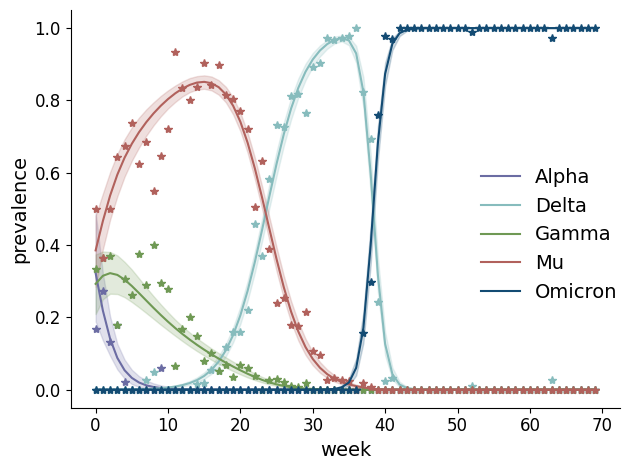
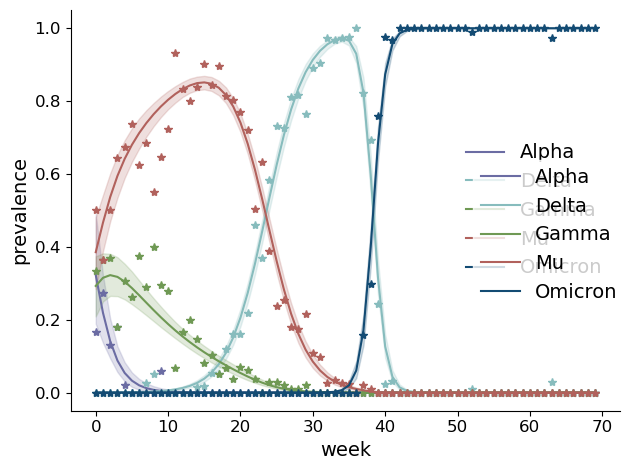
feat: added figures 3 and 3-1 and their corresponding generating functions

diff --git a/plot_scripts/results_epidemiological_distributions.py b/plot_scripts/results_epidemiological_distributions.py
@@ -29,7 +29,7 @@ import utilities as ut
 plt.style.use(config['PATHS']['PLOT_STYLE'])
 prop_cycle = plt.rcParams['axes.prop_cycle']
 colors = prop_cycle.by_key()['color']
-
+"""
 df_best_models = pd.read_csv(OUT_PATH + 'best_models.csv')
 df_best_models = df_best_models.set_index(df_best_models.columns[0]).transpose()
 
@@ -40,7 +40,7 @@ all_dfs, columns = ut.prepare_confirmed_cases_data()
 ##############################################################################
 # load the samples (models fits for every epidemiological distribution)
 dist_posteriors = ut.load_samples()
-
+"""
 ########################################################################
 # Plot CDFs
 def plot_cdf(df, epi_dist, max_val, ax, cdf_null_hyp, n, n_subset = None, subset = 'wave'):
@@ -146,34 +146,9 @@ def plot_dist(df, epi_dist, max_val, ax, n_subset = None, subset = 'wave',
     ax.set_ylabel('Probability')
     ax.set_title(title)
     return ax
-
-########################################################################
-# Plot best model
-def plot_best_model(dist, ax, n):
-    df_best_models_sum = pd.read_csv(OUT_PATH + "best_fit_summary.csv")
-    df_dist = df_best_models_sum[df_best_models_sum.dist == dist]
-    df_dist = df_dist.set_index('stat')
-    name = dist.replace('_', ' ')
-    mean = np.array([df_dist['wave_1']['mean'], df_dist['wave_2']['mean'], 
-                     df_dist['wave_3']['mean'], df_dist['wave_4']['mean']])
-    err = np.array([[df_dist['wave_1']['mean'] - df_dist['wave_1']['q025'], 
-                     df_dist['wave_2']['mean'] - df_dist['wave_2']['q025'], 
-                     df_dist['wave_3']['mean'] - df_dist['wave_3']['q025'], 
-                     df_dist['wave_4']['mean'] - df_dist['wave_4']['q025']],
-                    [df_dist['wave_1']['q975'] - df_dist['wave_1']['mean'], 
-                     df_dist['wave_2']['q975'] - df_dist['wave_2']['mean'], 
-                     df_dist['wave_3']['q975'] - df_dist['wave_3']['mean'], 
-                     df_dist['wave_4']['q975'] - df_dist['wave_4']['mean']]])
-    ax.errorbar(['1', '2', '3', '4'], mean, err, 
-                ls = '-', marker = 'o', 
-                color = colors[n],
-                label = name)
-    ax.set_xlabel('Wave')
-    ax.set_ylabel('Days')
-    return ax
-
 ########################################################################
 # Plot epi distributions
+"""
 dist_list = ['Gamma', 'Lognormal', 'Weibull', 'Exponential', 'Gen Lognormal']
 max_val_plot=60
 
@@ -269,24 +244,53 @@ plot_dist(df, epi_dist = var, max_val = max_val_plot,
 handles, labels = ax[0][0].get_legend_handles_labels()
 fig.legend(handles, labels, bbox_to_anchor = (0.8, -0.03), ncol = len(dist_list))
 fig.savefig(FIG_PATH + 'onset_distributions.png')
+"""
 
 ########################################################################
 ########################################################################
-# Plot best distributions
-fig, ax = plt.subplots(figsize = (10, 10))
-dist = 'icu_stay'
-plot_best_model(dist, ax, 0)
-dist = 'hosp_stay'
-plot_best_model(dist, ax, 1)
-dist = 'onset_hosp'
-plot_best_model(dist, ax, 2)
-dist = 'onset_icu'
-plot_best_model(dist, ax, 3)
-dist = 'onset_death'
-plot_best_model(dist, ax, 4)
-handles, labels = ax.get_legend_handles_labels()
-# remove the errorbars
-handles = [h[0] for h in handles]
-# use them in the legend
-ax.legend(handles, labels, loc='upper right',numpoints=1)
-fig.savefig(FIG_PATH + 'best_models.png')
+########################################################################
+# Plot best model
+def plot_best_model_line(dist, ax, n, title):
+    df_best_models_sum = pd.read_csv(OUT_PATH + "best_fit_summary.csv")
+    df_dist = df_best_models_sum[df_best_models_sum.dist == dist]
+    df_dist = df_dist.set_index('stat')
+    name = dist.replace('_', ' ')
+    mean = np.array([df_dist['wave_1']['mean'], df_dist['wave_2']['mean'], 
+                     df_dist['wave_3']['mean'], df_dist['wave_4']['mean']])
+    err = abs(np.array([[df_dist['wave_1']['mean'] - df_dist['wave_1']['q025'], 
+                     df_dist['wave_2']['mean'] - df_dist['wave_2']['q025'], 
+                     df_dist['wave_3']['mean'] - df_dist['wave_3']['q025'], 
+                     df_dist['wave_4']['mean'] - df_dist['wave_4']['q025']],
+                    [df_dist['wave_1']['q975'] - df_dist['wave_1']['mean'], 
+                     df_dist['wave_2']['q975'] - df_dist['wave_2']['mean'], 
+                     df_dist['wave_3']['q975'] - df_dist['wave_3']['mean'], 
+                     df_dist['wave_4']['q975'] - df_dist['wave_4']['mean']]]))
+    ax.errorbar(['1', '2', '3', '4'], mean, err, 
+                ls = '-', marker = 'o', 
+                color = colors[n],
+                label = name)
+    ax.set_xlabel('Wave')
+    ax.set_ylabel('Days')
+    ax.set_title(title)
+    return ax
+
+def plot_best_model_bar(dist, ax, n, name_y, title):
+    df_best_models_sum = pd.read_csv(OUT_PATH + "best_fit_summary.csv")
+    df_dist = df_best_models_sum[df_best_models_sum.dist == dist]
+    df_dist = df_dist.set_index('stat')
+    name = dist.replace('_', ' ')
+    mean = np.array([df_dist['wave_1']['mean'], df_dist['wave_2']['mean'], 
+                     df_dist['wave_3']['mean'], df_dist['wave_4']['mean']])
+    err = abs(np.array([[df_dist['wave_1']['mean'] - df_dist['wave_1']['q025'], 
+                     df_dist['wave_2']['mean'] - df_dist['wave_2']['q025'], 
+                     df_dist['wave_3']['mean'] - df_dist['wave_3']['q025'], 
+                     df_dist['wave_4']['mean'] - df_dist['wave_4']['q025']],
+                    [df_dist['wave_1']['q975'] - df_dist['wave_1']['mean'], 
+                     df_dist['wave_2']['q975'] - df_dist['wave_2']['mean'], 
+                     df_dist['wave_3']['q975'] - df_dist['wave_3']['mean'], 
+                     df_dist['wave_4']['q975'] - df_dist['wave_4']['mean']]]))
+    ax.bar(['1', '2', '3', '4'], mean, yerr = err,
+    color = colors[n], label = name)
+    ax.set_xlabel('Wave')
+    ax.set_ylabel(name_y)
+    ax.set_title(title)

diff --git a/plot_scripts/figure_3.py b/plot_scripts/figure_3.py
@@ -1,0 +1,52 @@
+# -*- coding: utf-8 -*-
+"""
+Created on Wed 1 Dic 2022
+@author: davidsantiagoquevedo
+@author: ntorresd
+"""
+import sys
+import yaml
+import matplotlib.pyplot as plt
+
+ymlfile = open("config.yml", "r")
+cfg = yaml.load(ymlfile)
+config = cfg["default"]
+
+SCRIPTS_PATH = config['PATHS']['PLOT_PATH']
+FIG_PATH = config['PATHS']['FIG_PATH'].format(dir = 'plot_scripts')
+sys.path.append(SCRIPTS_PATH)
+
+import results_epidemiological_distributions as red
+
+fig, ax = plt.subplots(1,5, figsize = (50, 10))
+dist = 'hosp_stay'
+red.plot_best_model_bar(dist, ax[0], 0, 'Hospital stay (days)', 'a.')
+dist = 'icu_stay'
+red.plot_best_model_bar(dist, ax[1], 0, 'ICU stay (days)', 'b.')
+dist = 'onset_hosp'
+red.plot_best_model_bar(dist, ax[2], 0, 'Onset to hospitalization (days)', 'c.')
+dist = 'onset_icu'
+red.plot_best_model_bar(dist, ax[3], 0, 'Onset to ICU entrance (days)', 'd.')
+dist = 'onset_death'
+red.plot_best_model_bar(dist, ax[4], 0, 'Onset to death (days)', 'e.')
+fig.savefig(FIG_PATH + 'Figure_3.png')
+
+
+# Plot best distributions
+fig, ax = plt.subplots(figsize = (10, 10))
+dist = 'icu_stay'
+red.plot_best_model_line(dist, ax, 0)
+dist = 'hosp_stay'
+red.plot_best_model_line(dist, ax, 1)
+dist = 'onset_hosp'
+red.plot_best_model_line(dist, ax, 2)
+dist = 'onset_icu'
+red.plot_best_model_line(dist, ax, 3)
+dist = 'onset_death'
+red.plot_best_model_line(dist, ax, 4)
+handles, labels = ax.get_legend_handles_labels()
+# remove the errorbars
+handles = [h[0] for h in handles]
+# use them in the legend
+ax.legend(handles, labels, loc='upper right',numpoints=1)
+fig.savefig(FIG_PATH + 'best_models.png')

diff --git a/plot_scripts/results_genomics.py b/plot_scripts/results_genomics.py
@@ -10,6 +10,7 @@ import yaml
 import pandas as pd
 import matplotlib.pyplot as plt
 import seaborn as sns
+from met_brewer import met_brew
 
 ymlfile = open("config.yml", "r")
 cfg = yaml.load(ymlfile)
@@ -88,6 +89,7 @@ def plot_multinomial(ax):
                 color  = colors[n], marker = '*', linestyle = '')
         ax.fill_between(df_results[mask].week, df_results[mask1].theta, df_results[mask2].theta,
                         color  = colors[n], alpha = 0.2)
+        ax.legend(loc = 'center right')
 
 fig, ax = plt.subplots()
 plot_multinomial(ax)
@@ -121,3 +123,23 @@ ax.set_ylabel('prevalence')
 ax.tick_params(axis = 'x', rotation = 45)
 fig.savefig(FIG_PATH + 'variants_prevalence_' + DATE_GENOMICS + '.png')
 # fig.show()
+
+# Advantage heatmap
+
+fig, ax = plt.subplots()
+def plot_heatmap(ax, n):
+        df_adv = pd.read_csv(OUT_PATH + 'advantage.csv')
+        df_mean = pd.DataFrame({})
+        df_mean['pivot_variant'] = df_adv['pivot_variant']
+        for col in df_adv.columns.to_list()[1:]:
+                df_mean[[col,'trash']] = df_adv[col].str.split(' ', 1, expand = True)
+                df_mean[col] = df_mean[col].astype(float)
+                del(df_mean['trash'])
+        df_adv = df_adv.set_index('pivot_variant')
+        df_mean = df_mean.set_index('pivot_variant')
+        df_mean = df_mean.replace(1,0)
+        
+        color_list = met_brew('VanGogh1', n = n, brew_type='continuous')
+
+        sns.heatmap(data = df_mean, annot = True, cmap = color_list, ax = ax)
+        ax.set_ylabel('')

diff --git a/plot_scripts/figure_3_1.py b/plot_scripts/figure_3_1.py
@@ -1,0 +1,31 @@
+# -*- coding: utf-8 -*-
+"""
+Created on Wed 1 Dic 2022
+@author: davidsantiagoquevedo
+@author: ntorresd
+"""
+import sys
+import yaml
+import matplotlib.pyplot as plt
+
+ymlfile = open("config.yml", "r")
+cfg = yaml.load(ymlfile)
+config = cfg["default"]
+
+SCRIPTS_PATH = config['PATHS']['PLOT_PATH']
+FIG_PATH = config['PATHS']['FIG_PATH'].format(dir = 'plot_scripts')
+sys.path.append(SCRIPTS_PATH)
+
+import results_genomics as rg
+
+fig, ax = plt.subplots(1,2, figsize = (20, 10))
+axi = ax[0]
+rg.plot_multinomial(axi)
+axi.set_xlabel('Week')
+axi.set_ylabel('Prevalence')
+axi.set_title('a.')
+
+axi = ax[1]
+rg.plot_heatmap(axi, n = 200)
+axi.set_title('b.')
+fig.savefig(FIG_PATH + 'figure_3_1.png')
